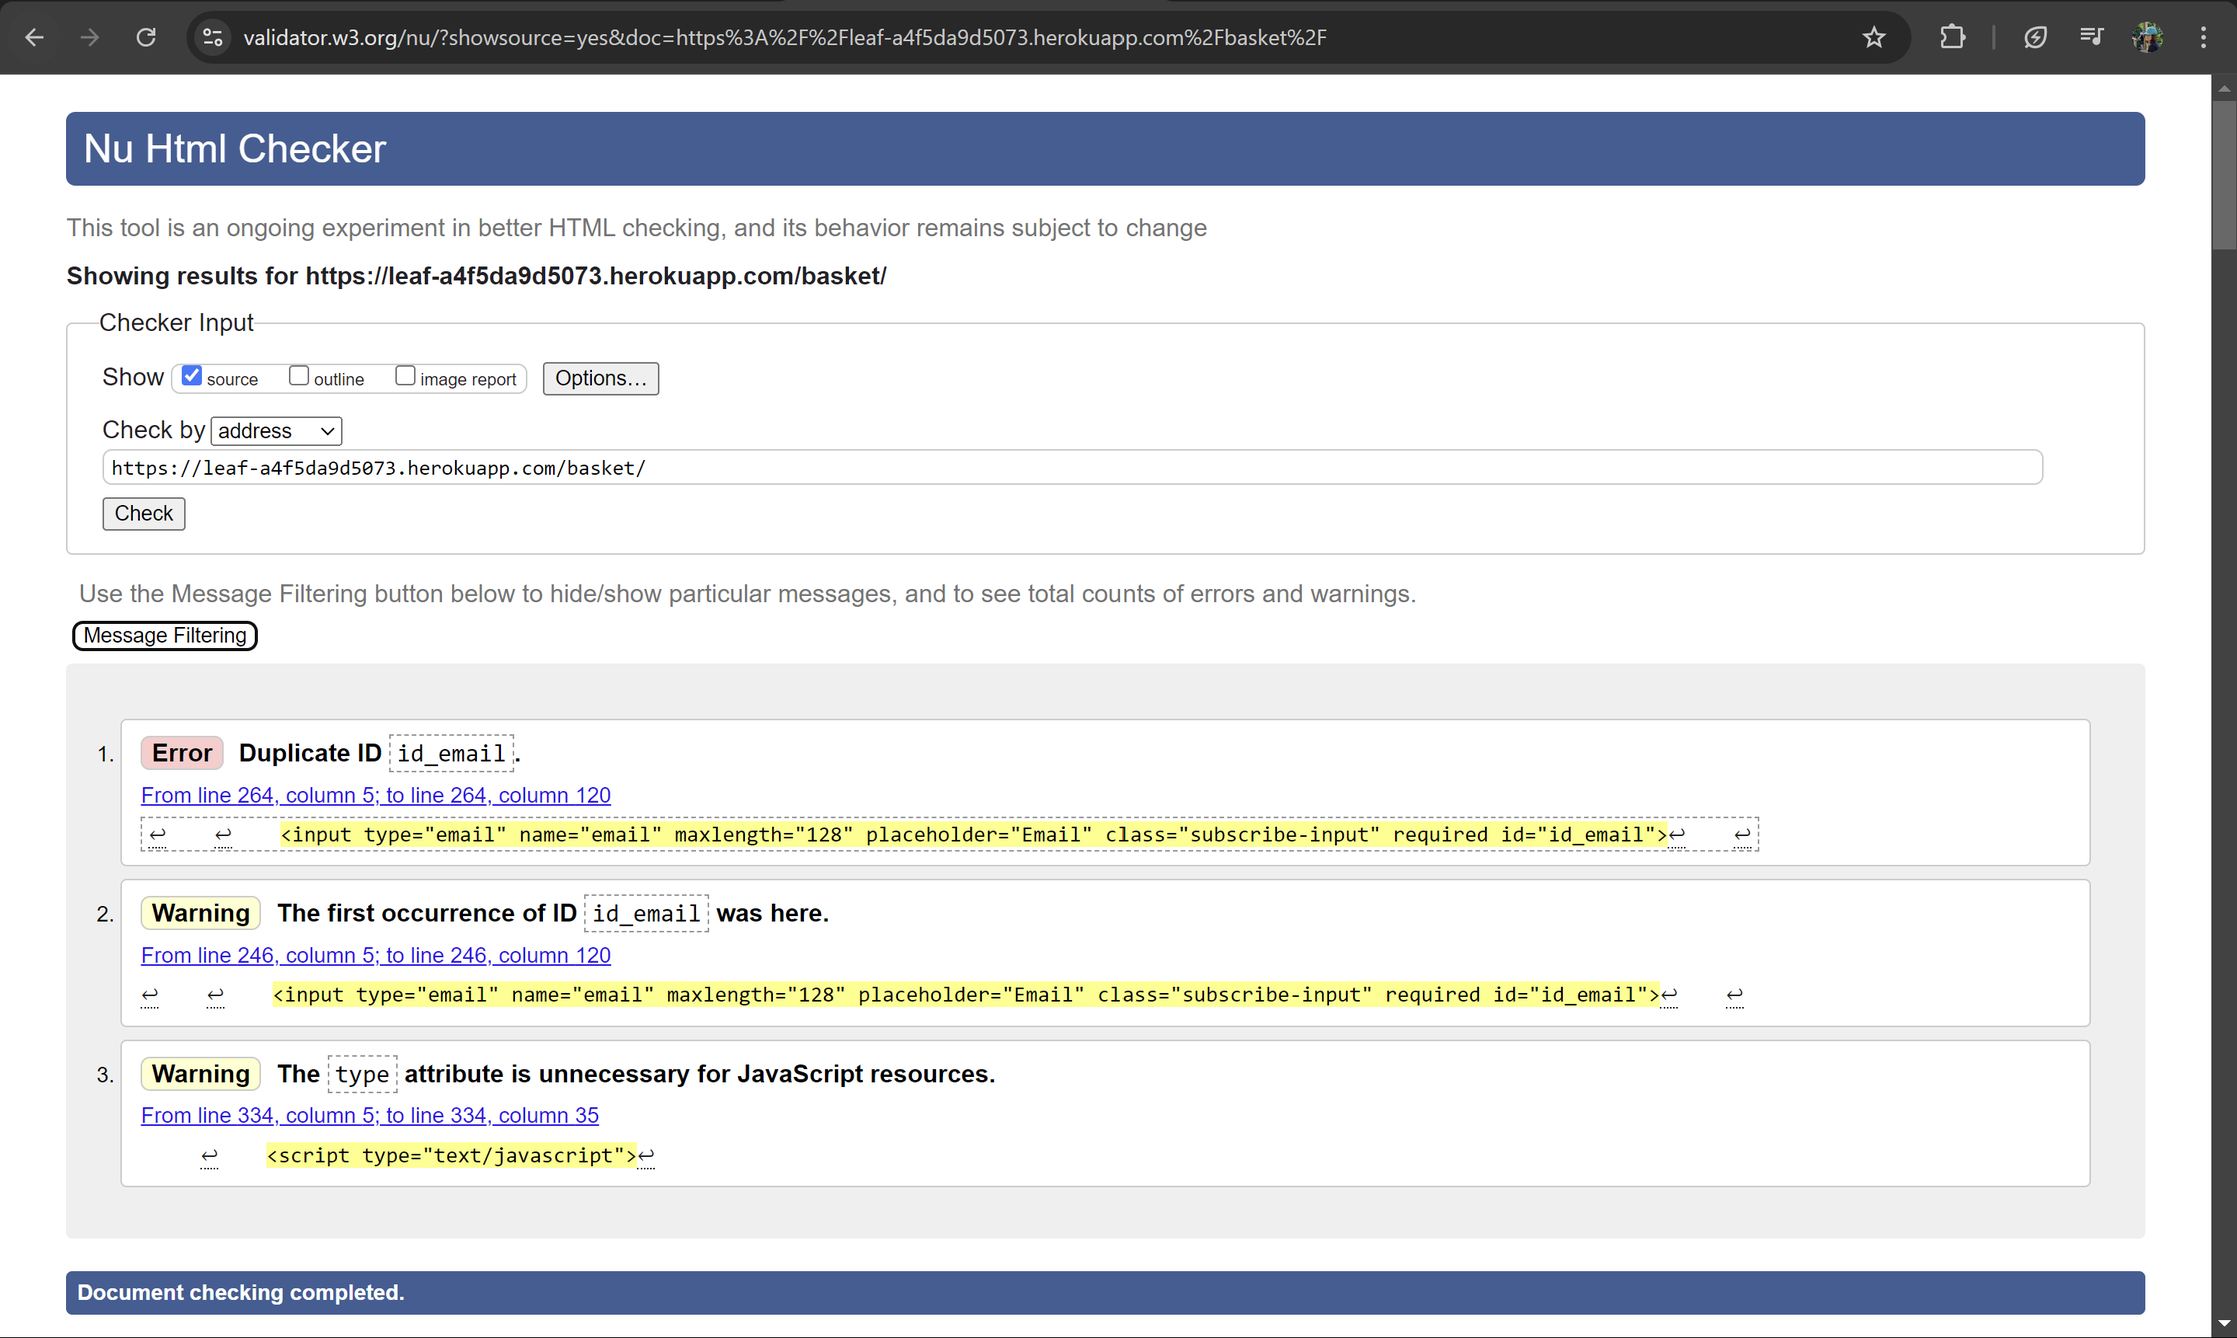
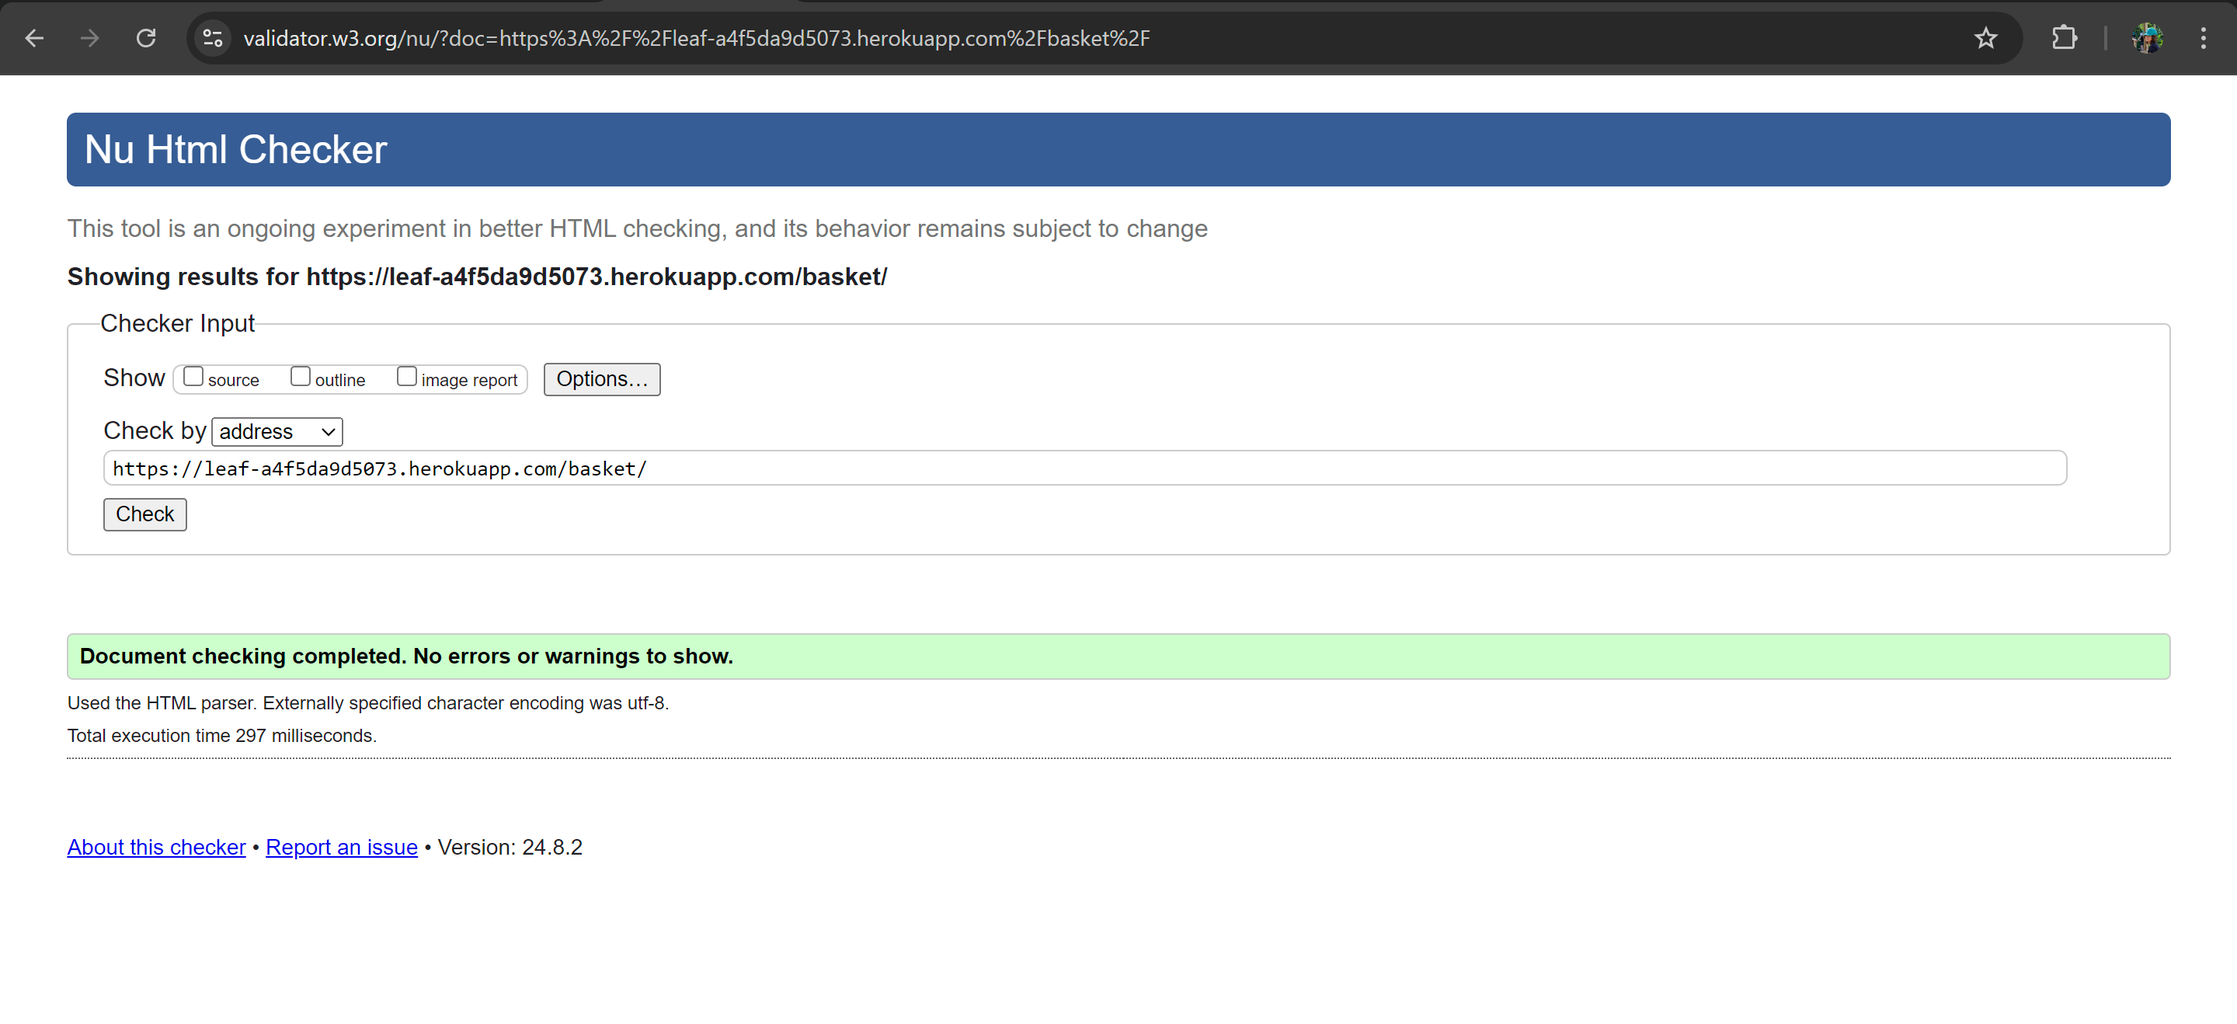
add: MARKETING.md content + amend community structure

Changed region(s): [[0.0, 0.0, 1.0, 1.0], [0.9062, 0.5288, 0.9375, 0.5599]]

diff --git a/community/templates/community/community.html b/community/templates/community/community.html
@@ -22,18 +22,16 @@
             </div>
         {% else %}
             {% for community in user_communities %}
-            <span class="col-lg-4 col-mg-6 col-sm-12">
-                <div class="community-container shadow-sm rounded p-4 m-2">
-                    <a href="{% url 'community' community.slug %}" class="btn-link d-flex justify-content-between align-items-center" aria-label="Go to {{ community.name }}">
-                        <p class="m-0 p-0">
-                            <strong class="mt-3 text-uppercase"><small>
-                                {{ community.name|slice:"-9" }} Forum
-                            </small></strong>
-                        </p>
-                        <i class="text-black fa-solid fa-chevron-right fa-xxl"></i>
-                    </a>
-                </div>
-            </span>
+            <div class="community-container shadow-sm rounded p-4 m-2 col-lg-4 col-mg-6 col-sm-12">
+                <a href="{% url 'community' community.slug %}" class="btn-link d-flex justify-content-between align-items-center" aria-label="Go to {{ community.name }}">
+                    <p class="m-0 p-0">
+                        <strong class="mt-3 text-uppercase"><small>
+                            {{ community.name|slice:"-9" }} Forum
+                        </small></strong>
+                    </p>
+                    <i class="text-black fa-solid fa-chevron-right fa-xxl"></i>
+                </a>
+            </div>
             {% endfor %}
         {% endif %}
     </div>

diff --git a/README.md b/README.md
@@ -6,16 +6,16 @@ The application is available for viewing [here](https://leaf-a4f5da9d5073.heroku
 >>> ## Introduction
 Leaf Lounge book store and community hub is built with a `Django` backend - a high-level Python framework that encourages rapid development and clean code practices, and `Bootstrap5`, an extensive styling library. As a networking platform, Leaf Lounge offers book lovers the unique opportunity to connect and share impressions, reviews, and critiques of books. Visitors wishing to join one of Leaf Lounge's vast communities need only purchase a book and create an account to gain access to their personal profile, immediately gaining access to all Leaf Lounge has to offer. Additionally, registered users have the option of becoming a Leaf Lounge author by registering for an author profile and uploading their own published works to the Leaf Lounge library.
 
+>>> ## SEO & Marketing
+[MARKETING.md](https://github.com/Ana-Niko-byte/leaf-lounge/blob/main/docs/README_links/MARKETING.md)
+
 >>> ## Table of Contents
 - [Technology Stack](#technology-stack)
 - [Feature Sneak Peek](#feature-sneak-peek)
 - [Structure](#structure)
 - [Wireframes](#wireframes)
 - [User Stories](#user-stories)
-- [Strategy](#strategy)
-- [Scope of Application](#scope-of-application)
 - [Business/Social Goals](#businesssocial-goals)
-  - [Target Audience](#target-audience)
 - [UX Goals](#ux-goals)
 - [Features](#features)
 - [Models](#models)
@@ -111,55 +111,8 @@ Leaf Lounge book store and community hub is built with a `Django` backend - a hi
 | 31 | As a user, I require access to the book's genre community after making a purchase so I can network and engage with fellow book-enthusiasts. | `must-have` | <img src="docs/images/green-tick.png" alt="test passed" style="max-width: 40px;"> |
 | 32 | As a user and community member, I would like the ability to leave reviews so new users can get feedback on a book prior to making purchase. | `must-have` | <img src="docs/images/green-tick.png" alt="test passed" style="max-width: 40px;"> |
 
->>> ## Strategy
-This website strives to create an engaging and interactive environment for readers and book enthusiasts to connect, network and broaden the outreach of new authors within various book communities. Several intuitive features in the navigation bar at the top of the page and considerable consideration given to the overall design and feel of the website make the user's experience pleasant and easy-going, link shopping in a book shop.
-
-By adopting a similar layout to that of a bookstore, users visiting the library collection get fast access to all Leaf Lounge has to offer, while being able to partake in the same book-shopping experience from the comfort of their own homes.
-
->>> ## Scope of Application
-Leaf Lounge Bookstore and Community Hub is a dynamic platform built on a Django backend, leveraging the high-level Python framework known for its rapid development capabilities and clean code practices. Enhanced with Bootstrap 5 for modern and responsive design, Leaf Lounge serves as a networking space for book enthusiasts to connect, share impressions, reviews, and critiques. Membership is simple: by purchasing a book and creating an account, visitors gain immediate access to their personal profile and the full range of community features. Registered users also have the opportunity to become Leaf Lounge authors by setting up an author profile and uploading their published works to the Leaf Lounge library, further enriching the community experience.
-
-The application comes packed with the following functionality and features:
-  - Robust E-Commerce integration with Stripe payments.
-  - Search and Filter Books for quick and easy access to your favourite works.
-  - Engaging and interactive UI for a real-life online library experience.
-  - A dedicated contact page for handling user queries.
-  - User profiles for storing, managing, and amending data for personalised and streamlined experiences.
-  - Community Forums for connecting and engaging with like-minded book enthusiasts and genre fanatics.
-
 >>> ## Business/Social Goals
-
->> #### Target Audience
-`Readers` `Authors` `Publishers` `Book Critics` `Book Enthusiasts` `Users 15+ years of age (payment)`.
-
-- As a first time visitor, I would like to be taken directly to the 'Leaf Lounge' home page so that I have quick access to all relevant information to get started.
-- As a site user, I would like a custom profile with my personal information.
-- As a site user, I would like the option to read more information on the book before buying it.
-- As a site visitor, I require access to the library page so that I can view and choose from available books.
-- As a site user, it would be nice to have a contact page so that I could contact the 'Leaf Lounge' team with queries.
-- As a site user, I require a checkout page from which I can make secure transactions.
-- As a site user, I require access to the chatroom so that I can network with other readers.
-- As a site user, I would like the option of viewing the books I have bought and storing them in my profile.
-- As a site user, I would like the option of viewing my books before buying them.
-- As a site user, I would like the option of amending my books before buying them.
-- As a site user, I would like the option of deleting books from my basket.
-- As a site user, I require a secure payment system to make transactions.
-- As a site user, I require the option of signing-up, signing-in and signing-out of my account so that I can have a more personal experience and manage my data.
-- As a site visitor, I would like the option of signing up for the Leaf Lounge Newsletter, without needing to register for an account.
-- As a site user, I would like access to Leaf Lounge's social media so that I could follow the page and stay up to date.
-- As a site user, I would like the ability to search for a book so that I can quickly find the one I am looking for.
-- As a book enthusiast, I would like the option of registering as an author and putting my work on Leaf Lounge so that I can get exposure within the communities.
-- As a site user, I would like the option of viewing the books I have bought and storing them in my profile so that I can access the book communities and view my order history.
-- As a user, I require access to the book's genre community after making a purchase so I can network and engage with fellow book-enthusiasts.
-- As a user and community member, I would like the ability to leave reviews so new users can get feedback on a book prior to making purchase.
-_Note: full CRUD functionality will be implemented here._
-
-Also available for viewing here:
-[Facebook Page](https://www.facebook.com/profile.php?id=61563390085042).
-As part of the social media marketing strategy, a Facebook page was created for the Leaf Lounge community.
-The profile picture is of the `Leaf Lounge` logo, building brand recognition, with a relevant cover photo. A single post was made as part of an introduction to the website, with a link to the deployed version, (and a warning message telling users to not input any banking information into the checkout).
-
-![Facebook Screenshot](docs/images/facebook.png)
+[MARKETING.md](https://github.com/Ana-Niko-byte/leaf-lounge/blob/main/docs/README_links/MARKETING.md)
 
 >>> ## UX Goals
 - As a site user, I would like fast access to only the pages that would benefit my experience.

diff --git a/docs/README_links/MARKETING.md b/docs/README_links/MARKETING.md
@@ -1,6 +1,6 @@
 >>> ## SEO & Marketing
 
->> #### Keywords
+>> #### Keyword Research
 - `book community`
 - `online books`
 - `book lounge`
@@ -10,8 +10,53 @@
 >> #### Similar Businesses (Research)
 - [books.ie](https://www.books.ie/)
 - [kennys.ie](https://www.kennys.ie/)
--  [Dubray](https://www.dubraybooks.ie/?srsltid=AfmBOorV7db1Yde_mEfHcKGm_kP9eIH_9DNif1z9ENdCMVYsCnxVqWNQ)
+- [Dubray](https://www.dubraybooks.ie/?srsltid=AfmBOorV7db1Yde_mEfHcKGm_kP9eIH_9DNif1z9ENdCMVYsCnxVqWNQ)
 
 >> #### SEO
 
+> ###### Meta Tags
+`base.html` contains two metas - `name="description"`, and `name="keywords"`. Each of these tags add to the SEO optimization of the website by incorporating key words and a site description. 
+
+> ###### sitemap.xml
+To improve site navigation, a sitemap.xml file was created using [XML Sitemaps](https://www.xml-sitemaps.com/). This file provides a comprehensive breakdown of `Leaf Lounge`'s links for search engine content discovery.
+
+> ###### robots.txt
+Additionally, a robots.txt file is provided for informing crawlers which directories they may crawl, with a link to the generated sitemap for a comprehensive breakdown. This file signals a level of search engine quality and improves the SEO ranking of the website.
+
 >> #### Marketing Strategy
+`Leaf Lounge` is a C2C solution, allowing users to sell their own books to other site users. Leaf Lounge also provides its own library for users to purchase books.
+
+> ###### Planning
+This website strives to create an engaging and interactive environment for readers and book enthusiasts to connect, network and broaden the outreach of new authors within various book communities. Several intuitive features in the navigation bar at the top of the page and considerable consideration given to the overall design and feel of the website make the user's experience pleasant and easy-going, link shopping in a book shop.
+
+By adopting a similar layout to that of a bookstore, users visiting the library collection get fast access to all Leaf Lounge has to offer, while being able to partake in the same book-shopping experience from the comfort of their own homes.
+
+To create a successful website, I needed to define and refine the types of users I would expect to visit this website, define the scope of the application for the period within which this site was to be delivered as a working product (i.e., before deadline), and define several marketing strategies to compliment the finished site, bearing in mind limitations with budget, time, user-reach, and user engagement (UIUX).
+
+> ###### Scope of Application
+Leaf Lounge Bookstore and Community Hub is a dynamic platform built on a Django backend, leveraging the high-level Python framework known for its rapid development capabilities and clean code practices. Enhanced with Bootstrap 5 for modern and responsive design, Leaf Lounge serves as a networking space for book enthusiasts to connect, share impressions, reviews, and critiques. Membership is simple: by purchasing a book and creating an account, visitors gain immediate access to their personal profile and the full range of community features. Registered users also have the opportunity to become Leaf Lounge authors by setting up an author profile and uploading their published works to the Leaf Lounge library, further enriching the community experience.
+
+The application comes packed with the following functionality and features:
+  - Robust E-Commerce integration with Stripe payments.
+  - Search and Filter Books for quick and easy access to your favourite works.
+  - Engaging and interactive UI for a real-life online library experience.
+  - A dedicated contact page for handling user queries.
+  - User profiles for storing, managing, and amending data for personalised and streamlined experiences.
+  - Community Forums for connecting and engaging with like-minded book enthusiasts and genre fanatics.
+
+> ###### Target Audience
+`Readers` `Authors` `Publishers` `Book Critics` `Book Enthusiasts` `Users 15+ years of age (payment)`.
+
+>> #### Marketing Strategies
+
+> ###### Social Media
+
+As part of the social media marketing strategy, a [Facebook Page](https://www.facebook.com/profile.php?id=61563390085042). was created for the Leaf Lounge community.
+The profile picture is of the `Leaf Lounge` logo, building brand recognition, with a relevant cover photo. A single post was made as part of an introduction to the website, with a link to the deployed version, (and a warning message telling users to not input any banking information into the checkout).
+
+![Facebook Screenshot](docs/images/facebook.png)
+
+> ###### Email Marketing (MailChimp Newsletter)
+As part of the email marketing strategy, a newsletter form is provided at the bottom of the footer for users to sign up to the `Leaf Lounge` Newsletter. This is ideal for a small business and users may unsubscribe at any point from any page by toggling the form. This service was free to set up.
+
+Other Marketing strategies were not implemented as the majority required payment, which is beyond the scope of this fictitious college project.

diff --git a/docs/README_links/TESTING.md b/docs/README_links/TESTING.md
@@ -1733,9 +1733,7 @@ While the book image covers take a while to load, a dark background colour is ap
 The rest of the application pages couldn't be reached by the Validator as the user must be authenticated to access them.
 
 >> #### HTML Validation
-All pages were validated using the  [W3C CSS Markup Validation Service](https://validator.w3.org/). Several pages showed HTML errors, however these are attributed solely to Django's makeup and codeflow. Each page is described below.
-
-For the sake of brevity, templates with the same errors are grouped together, with an explanation of each error provided at the end. 
+All pages were validated using the  [W3C CSS Markup Validation Service](https://validator.w3.org/).
 
 Home Page -
 ![Home Page Markup Errors](../images/html-home-validation.png)
@@ -1749,41 +1747,27 @@ Library Page -
 Basket Page -
 ![Basket Page Markup Errors](../images/html-basket-validation.png)
 
-Checkout Page -
-![Checkout Page Markup Errors](../images/html-checkout-validation.png)
-
-The `Duplicate ID` error relates to the mailchimp subscribe/unsubscribe toggle. Django forms are automatically assigned ids, based on the input names, thus as both forms are email input fields, both are labelled "id_email". This does not impede the flow of logic or data handling in the application.
-
-The `JS type attribute` warning is ignored, as some JS files aren't properly recognised in Chrome without it.
-
 Book Detail Page -
 ![Book Detail Page Markup Errors](../images/html-book-detail-validation.png)
 
-> The next couple of images show templates with errors stemming either from Django's syntax and automatic attribute assignment, or from the Newsletter form in the footer. An explanation of each is given at the very end.
+> The next couple of images show templates inaccessible by the HTML validator via URL, as they require user authentication, thus were validated by direct input. All pages showed no errors.
 
-General Communities Page -
-![Community General Page Markup Errors](../images/html-community-validation.png)
+The following are such tested templates:
 
-Specific Community Page -
-![Specific Community Markup Errors](../images/html-specific-community-validation.png)
+- Checkout Page
+- General Communities Page
+- Specific Community Page
+- Become an Author Page
+- Profile Page
+- Profile Books Page
 
-Become an Author Page -
-![Become an Author age Markup Errors](../images/html-become-author-validation.png)
+Inaccessible Pages Validation BY DIRECT INPUT-
+![Innaccessible Template Validation](../images/html-inaccessible-direct-input-validation.png)
 
-Profile Page -
-![Profile Page Markup Errors](../images/html-profile-validation.png)
+When validated via URL, the Validator validates the `Allauth Login` page for the project, and the following error comes up for all of these pages -
+![Login Validation Error](../images/html-inaccessible-url-validation.png)
 
-Profile Books Page -
-![User Books Page Markup Errors](../images/html-profile-books-validation.png)
-
-The `Button must not appear as a descendant of the a element` error relates to the structure of the website's buttons. It is generally considered best practice to not have two nested 'clickable' elements. However, this structure is necessary to maintain the style and display of the buttons, as simple anchor tags do not respond as well to Bootstrap classes.
-
-The `Duplicate ID` error relates to the Newsletter in the footer, and more information is available in the Home Page section of [HTML Validation](#html-validation)
-
-The `aria-describedby` error stems from Django's syntax and automatic assignment of attributes to certain elements.
-
-
-
+The `aria-describedby` error stems from Allauth's automatic assignment of attributes to certain elements. This library has not been amended in this project, and the error comes with the library. This issue has been brought up with student support. This code is not part of the project's custom code.
 
 >> #### CSS Validation
 All pages passed the [W3C CSS Validator](https://jigsaw.w3.org/css-validator/) with no errors. Last tested 22/09/2024.
